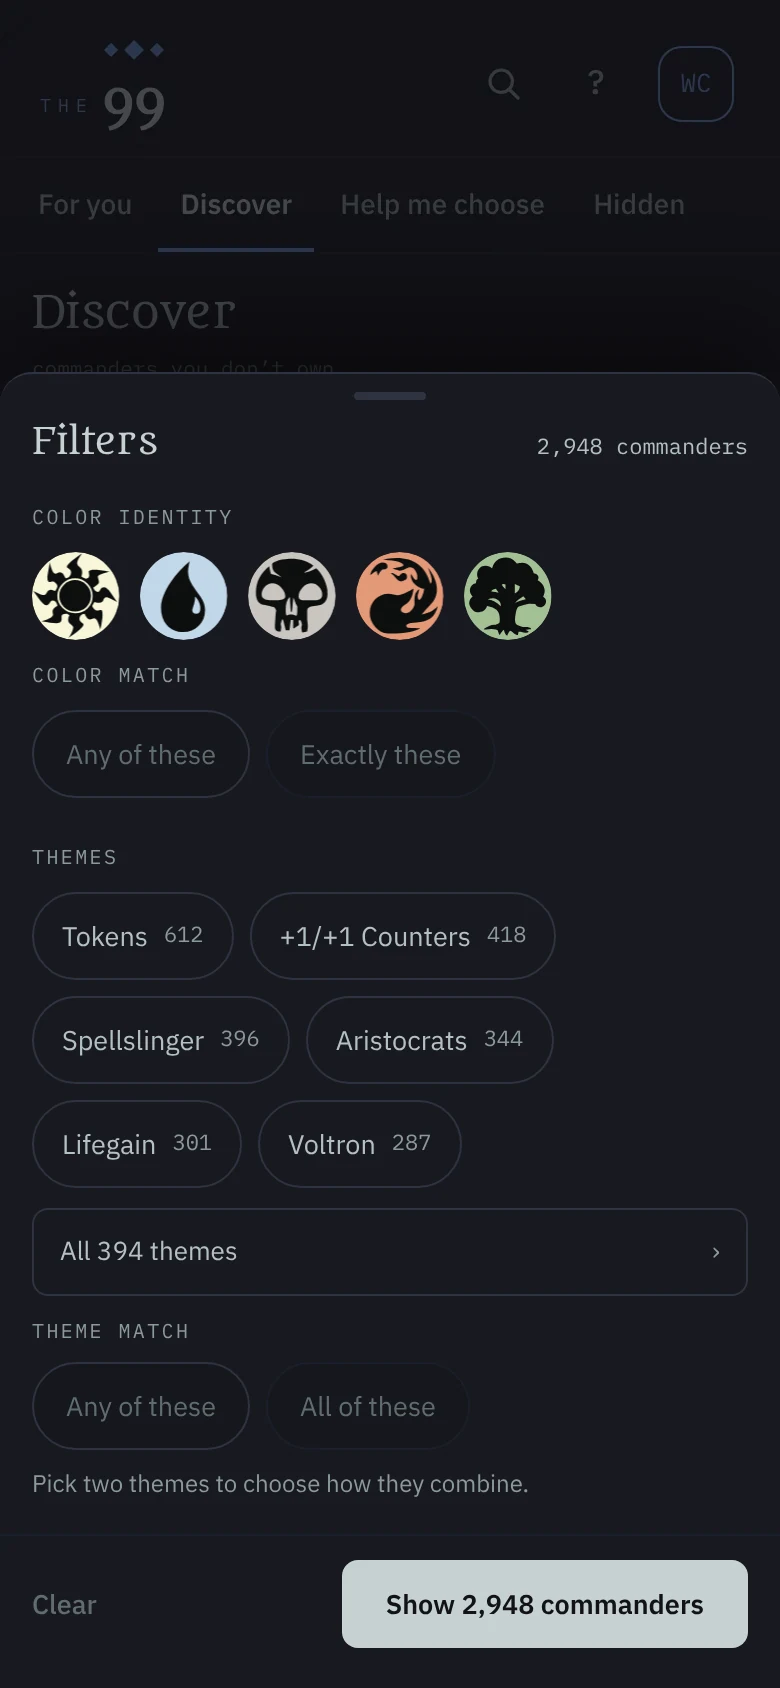
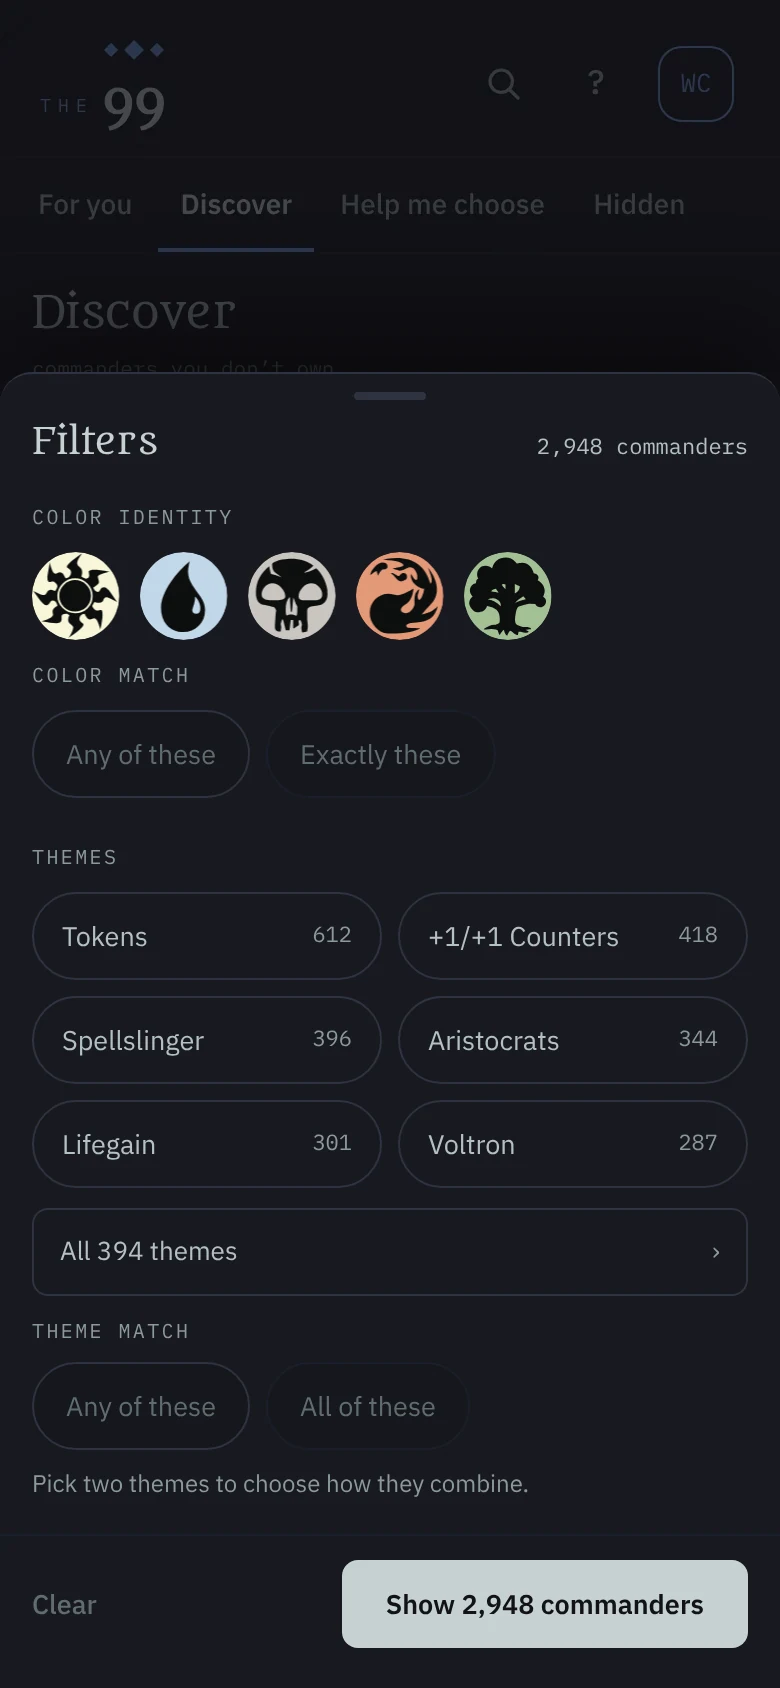
account-2 2026-11-21: Themes filter R1b (#159), phone theme pills on a fixed two-column grid
Claude-Session: https://claude.ai/code/session_01UvpaAZhiyadpwZkN8F5T93

Changed region(s): [[0.4, 0.5237, 0.7692, 0.7085], [0.8923, 0.6469, 0.9231, 0.6777], [0.8923, 0.5237, 0.9231, 0.5545]]

diff --git a/account-2/design_handoff_the99_commanders_discover/addendum-theme-filter/project/Picking.dc.html b/account-2/design_handoff_the99_commanders_discover/addendum-theme-filter/project/Picking.dc.html
@@ -35,15 +35,15 @@ a{color:#8FB4F0}a:hover{color:#B7CFF7}
 </div>
 <div style="display:flex;gap:40px;align-items:flex-start">
 <figure style="margin:0;display:flex;flex-direction:column;gap:12px;width:330px;flex:none">
-<img src="/_blob/bd3f1688185280a1307364cd39dc7311" alt="Phone filter sheet with Themes section" style="width:330px;height:714px;display:block;border-radius:28px;border:1px solid #262A35">
-<figcaption style="display:flex;flex-direction:column;gap:6px"><p style="margin:0;font-weight:600;font-size:15px">Phone · sheet</p><p style="margin:0;font-size:13px;line-height:1.55;color:#959AAD">Themes sits under color, before Printed in: six 44px pills with counts, "All 394 themes ›", then Theme match with its reason line.</p></figcaption>
+<img src="/_blob/81e5b852a99f3178db27ce536e410ac1" alt="Phone filter sheet with Themes section" style="width:330px;height:714px;display:block;border-radius:28px;border:1px solid #262A35">
+<figcaption style="display:flex;flex-direction:column;gap:6px"><p style="margin:0;font-weight:600;font-size:15px">Phone · sheet</p><p style="margin:0;font-size:13px;line-height:1.55;color:#959AAD">Themes sits under color, before Printed in: six 44px pills on a fixed two-column grid, each filling its cell with the count pinned right, so counts changing under other filters never resize a pill. Then "All 394 themes ›" and Theme match.</p></figcaption>
 </figure>
 <figure style="margin:0;display:flex;flex-direction:column;gap:12px;width:330px;flex:none">
-<img src="/_blob/81b4702d311a550e8a0cd4baf27f9c87" alt="Phone sheet, two themes picked" style="width:330px;height:714px;display:block;border-radius:28px;border:1px solid #262A35">
+<img src="/_blob/8af5a5ad8632b606f279a755e1e44e58" alt="Phone sheet, two themes picked" style="width:330px;height:714px;display:block;border-radius:28px;border:1px solid #262A35">
 <figcaption style="display:flex;flex-direction:column;gap:6px"><p style="margin:0;font-weight:600;font-size:15px">Phone · two picked</p><p style="margin:0;font-size:13px;line-height:1.55;color:#959AAD">Picked pills light and lead the row, so a pick made in the full list is never hidden here. Theme match is live. Taps apply at once; the footer counts.</p></figcaption>
 </figure>
 <figure style="margin:0;display:flex;flex-direction:column;gap:12px;width:330px;flex:none">
-<img src="/_blob/9c5b0826351e1b8ee86344d1a9e3c133" alt="Phone, all themes list layer" style="width:330px;height:714px;display:block;border-radius:28px;border:1px solid #262A35">
+<img src="/_blob/5a3d6b13c84c9b62fa1a3722c1da201c" alt="Phone, all themes list layer" style="width:330px;height:714px;display:block;border-radius:28px;border:1px solid #262A35">
 <figcaption style="display:flex;flex-direction:column;gap:6px"><p style="margin:0;font-weight:600;font-size:15px">Phone · all themes</p><p style="margin:0;font-size:13px;line-height:1.55;color:#959AAD">The shared SetListSheet one layer up: search, picks first, "2 of 394 selected", Back to filters.</p></figcaption>
 </figure>
 </div>

diff --git a/account-2/design_handoff_the99_commanders_discover/addendum-theme-filter/project/Combining.dc.html b/account-2/design_handoff_the99_commanders_discover/addendum-theme-filter/project/Combining.dc.html
@@ -39,7 +39,7 @@ a{color:#8FB4F0}a:hover{color:#B7CFF7}
 <figcaption style="display:flex;flex-direction:column;gap:6px"><p style="margin:0;font-weight:600;font-size:15px">Phone · All</p><p style="margin:0;font-size:13px;line-height:1.55;color:#959AAD">Two chips, Filters badge 2, the same sentence on the row.</p></figcaption>
 </figure>
 <figure style="margin:0;display:flex;flex-direction:column;gap:12px;width:330px;flex:none">
-<img src="/_blob/7095a03289c903f6b0be49601e7d044a" alt="Phone sheet with Blue lit" style="width:330px;height:714px;display:block;border-radius:28px;border:1px solid #262A35">
+<img src="/_blob/8200d6e432087b13be15c57f2fe69487" alt="Phone sheet with Blue lit" style="width:330px;height:714px;display:block;border-radius:28px;border:1px solid #262A35">
 <figcaption style="display:flex;flex-direction:column;gap:6px"><p style="margin:0;font-weight:600;font-size:15px">Phone · with color</p><p style="margin:0;font-size:13px;line-height:1.55;color:#959AAD">The pills re-rank inside Blue and the same line sits under "All 394 themes". A pill at 0 would grey like the panel's rows.</p></figcaption>
 </figure>
 </div>

diff --git a/account-2/design_handoff_the99_commanders_discover/addendum-theme-filter/README.md b/account-2/design_handoff_the99_commanders_discover/addendum-theme-filter/README.md
@@ -25,7 +25,9 @@ popular/new already exist; this adds mechanic/theme.
    decides where the per-commander tag list rides (the discover payload carries only the top three today).
 4. **Picking one or several.** Desktop: checkbox rows; picks pin to the shipped `Selected · N` group on open.
    Phone: the six most-played themes (under the other controls) as 44px pills, picked ones first, then
-   `All N themes ›` opening the whole searchable list. Taps apply at once, as everywhere in the rack.
+   `All N themes ›` opening the whole searchable list.
+   R1b (Hugh, 2026-11-21): the pills sit on a fixed two-column grid, each filling its cell, label left (truncates)
+   and count pinned right in tabular figures, so a count changing under another filter never resizes a pill. Taps apply at once, as everywhere in the rack.
 5. **Several combine with Any (default) or All.** `Theme match` mirrors Color match: two segments, greyed in place
    with fewer than two themes and saying why ("Pick two to combine" / "Pick two themes to choose how they
    combine."). Any is the default, matching `Printed in`. All keeps only commanders listed under every pick.
